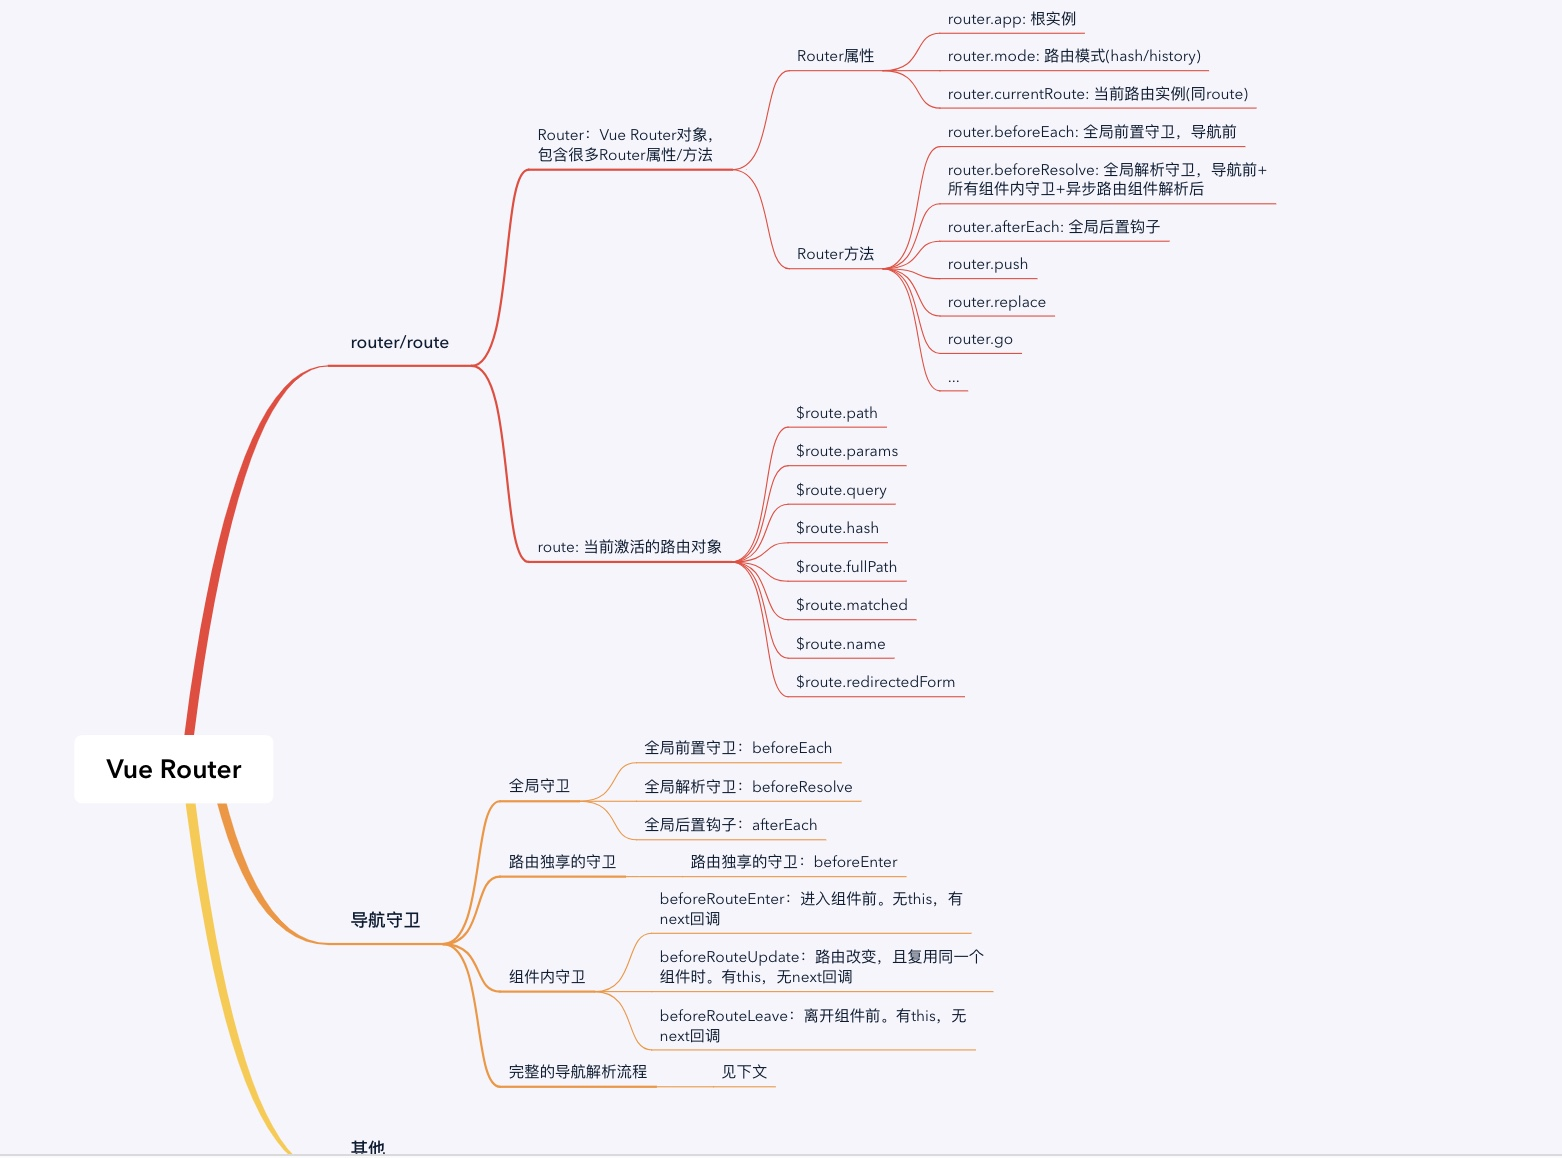
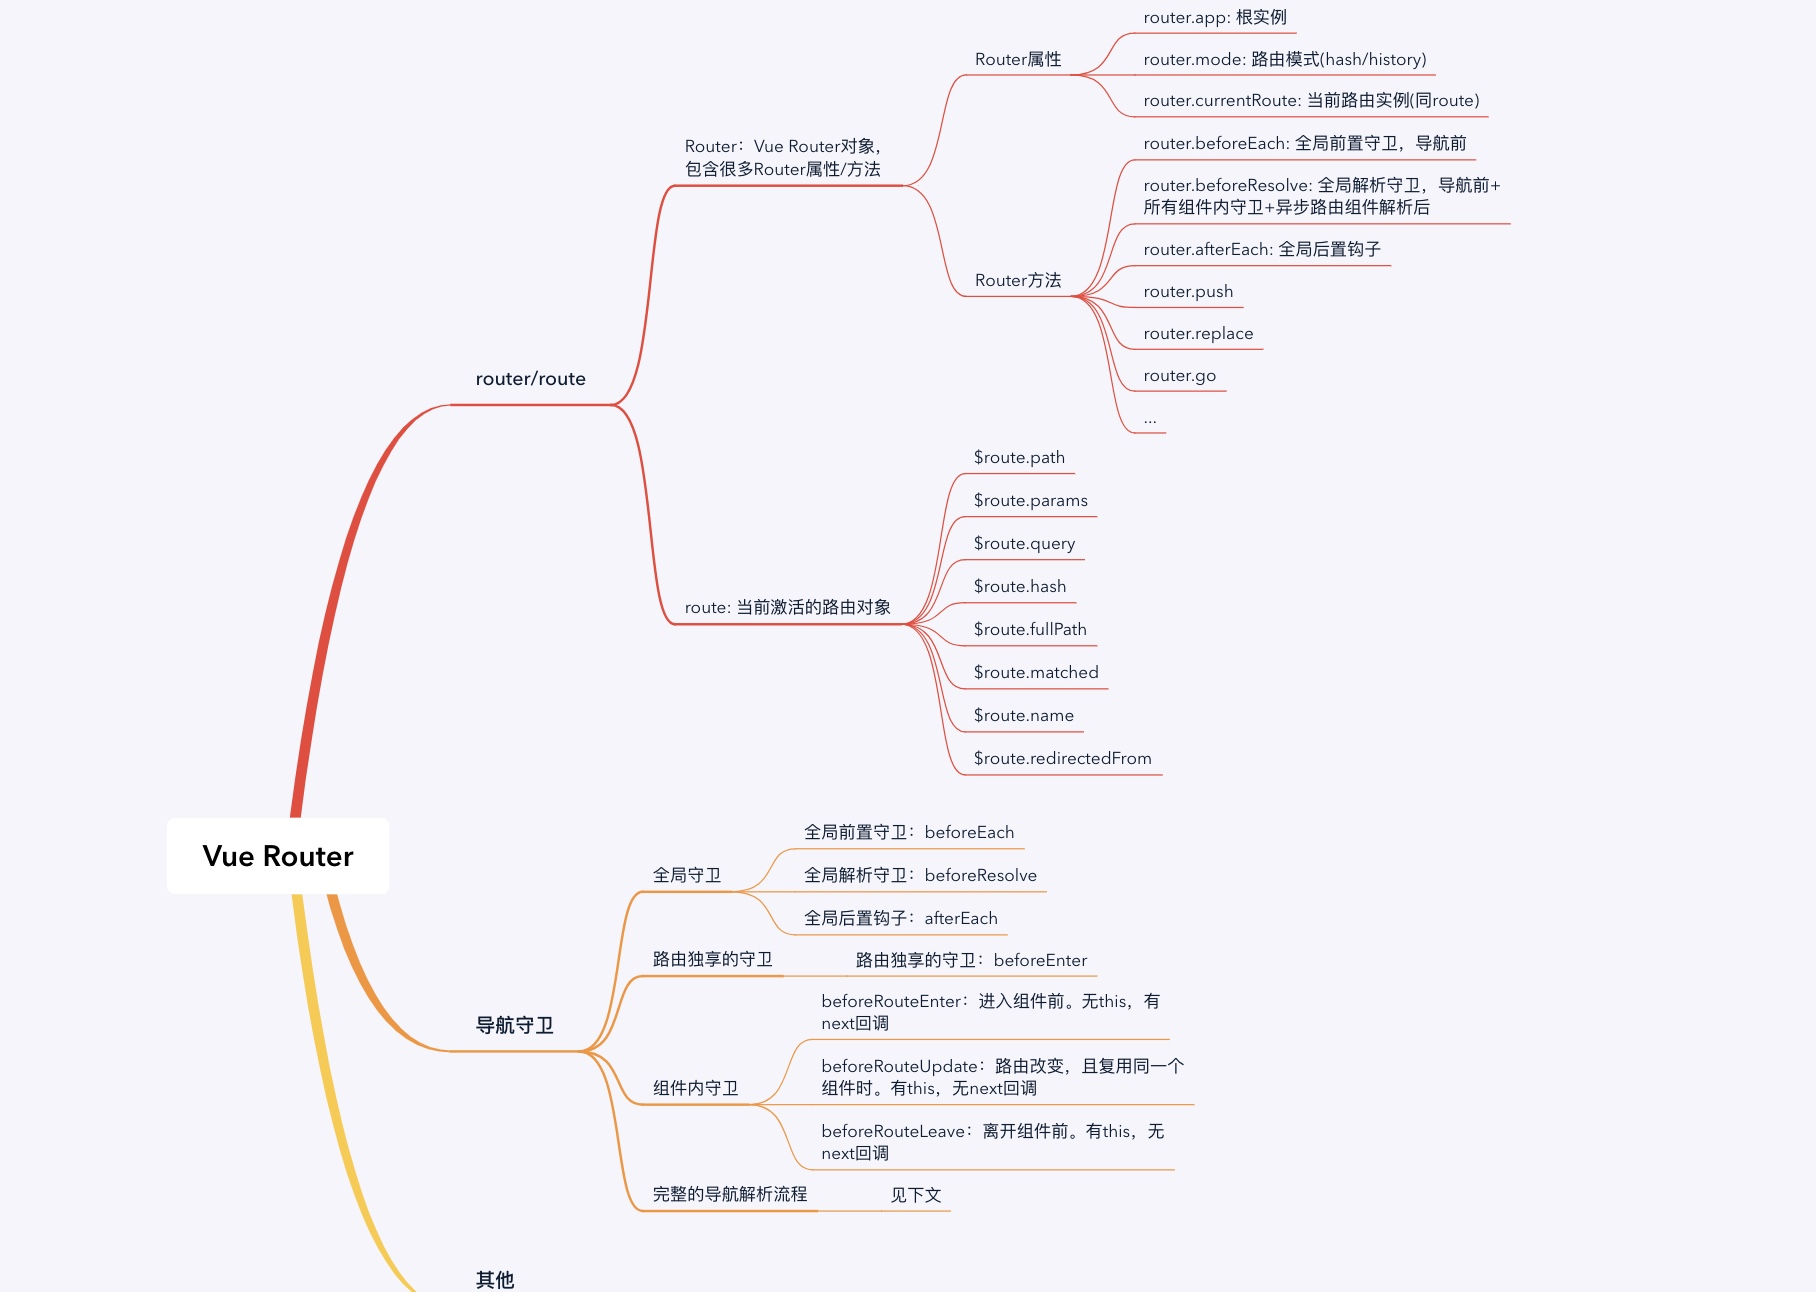
Update 'vue router' page, spelling mistake

diff --git a/source/_posts/vue-router.md b/source/_posts/vue-router.md
@@ -58,7 +58,7 @@ OK，开始正题
 - $route.fullPath: 完成解析后的 `URL`，包含查询参数和 `hash` 的完整路径。
 - $route.matched: 一个匹配路由的数组。从根路由开始到当前所在路由的所有嵌套路径片段组成的数组。
 - $route.name: 当前路由的 `name`。
-- $route.redirectedForm: 重定向来源的路由的名字。
+- $route.redirectedFrom: 重定向来源的路由的名字。
 
 #### 组件注入
 
